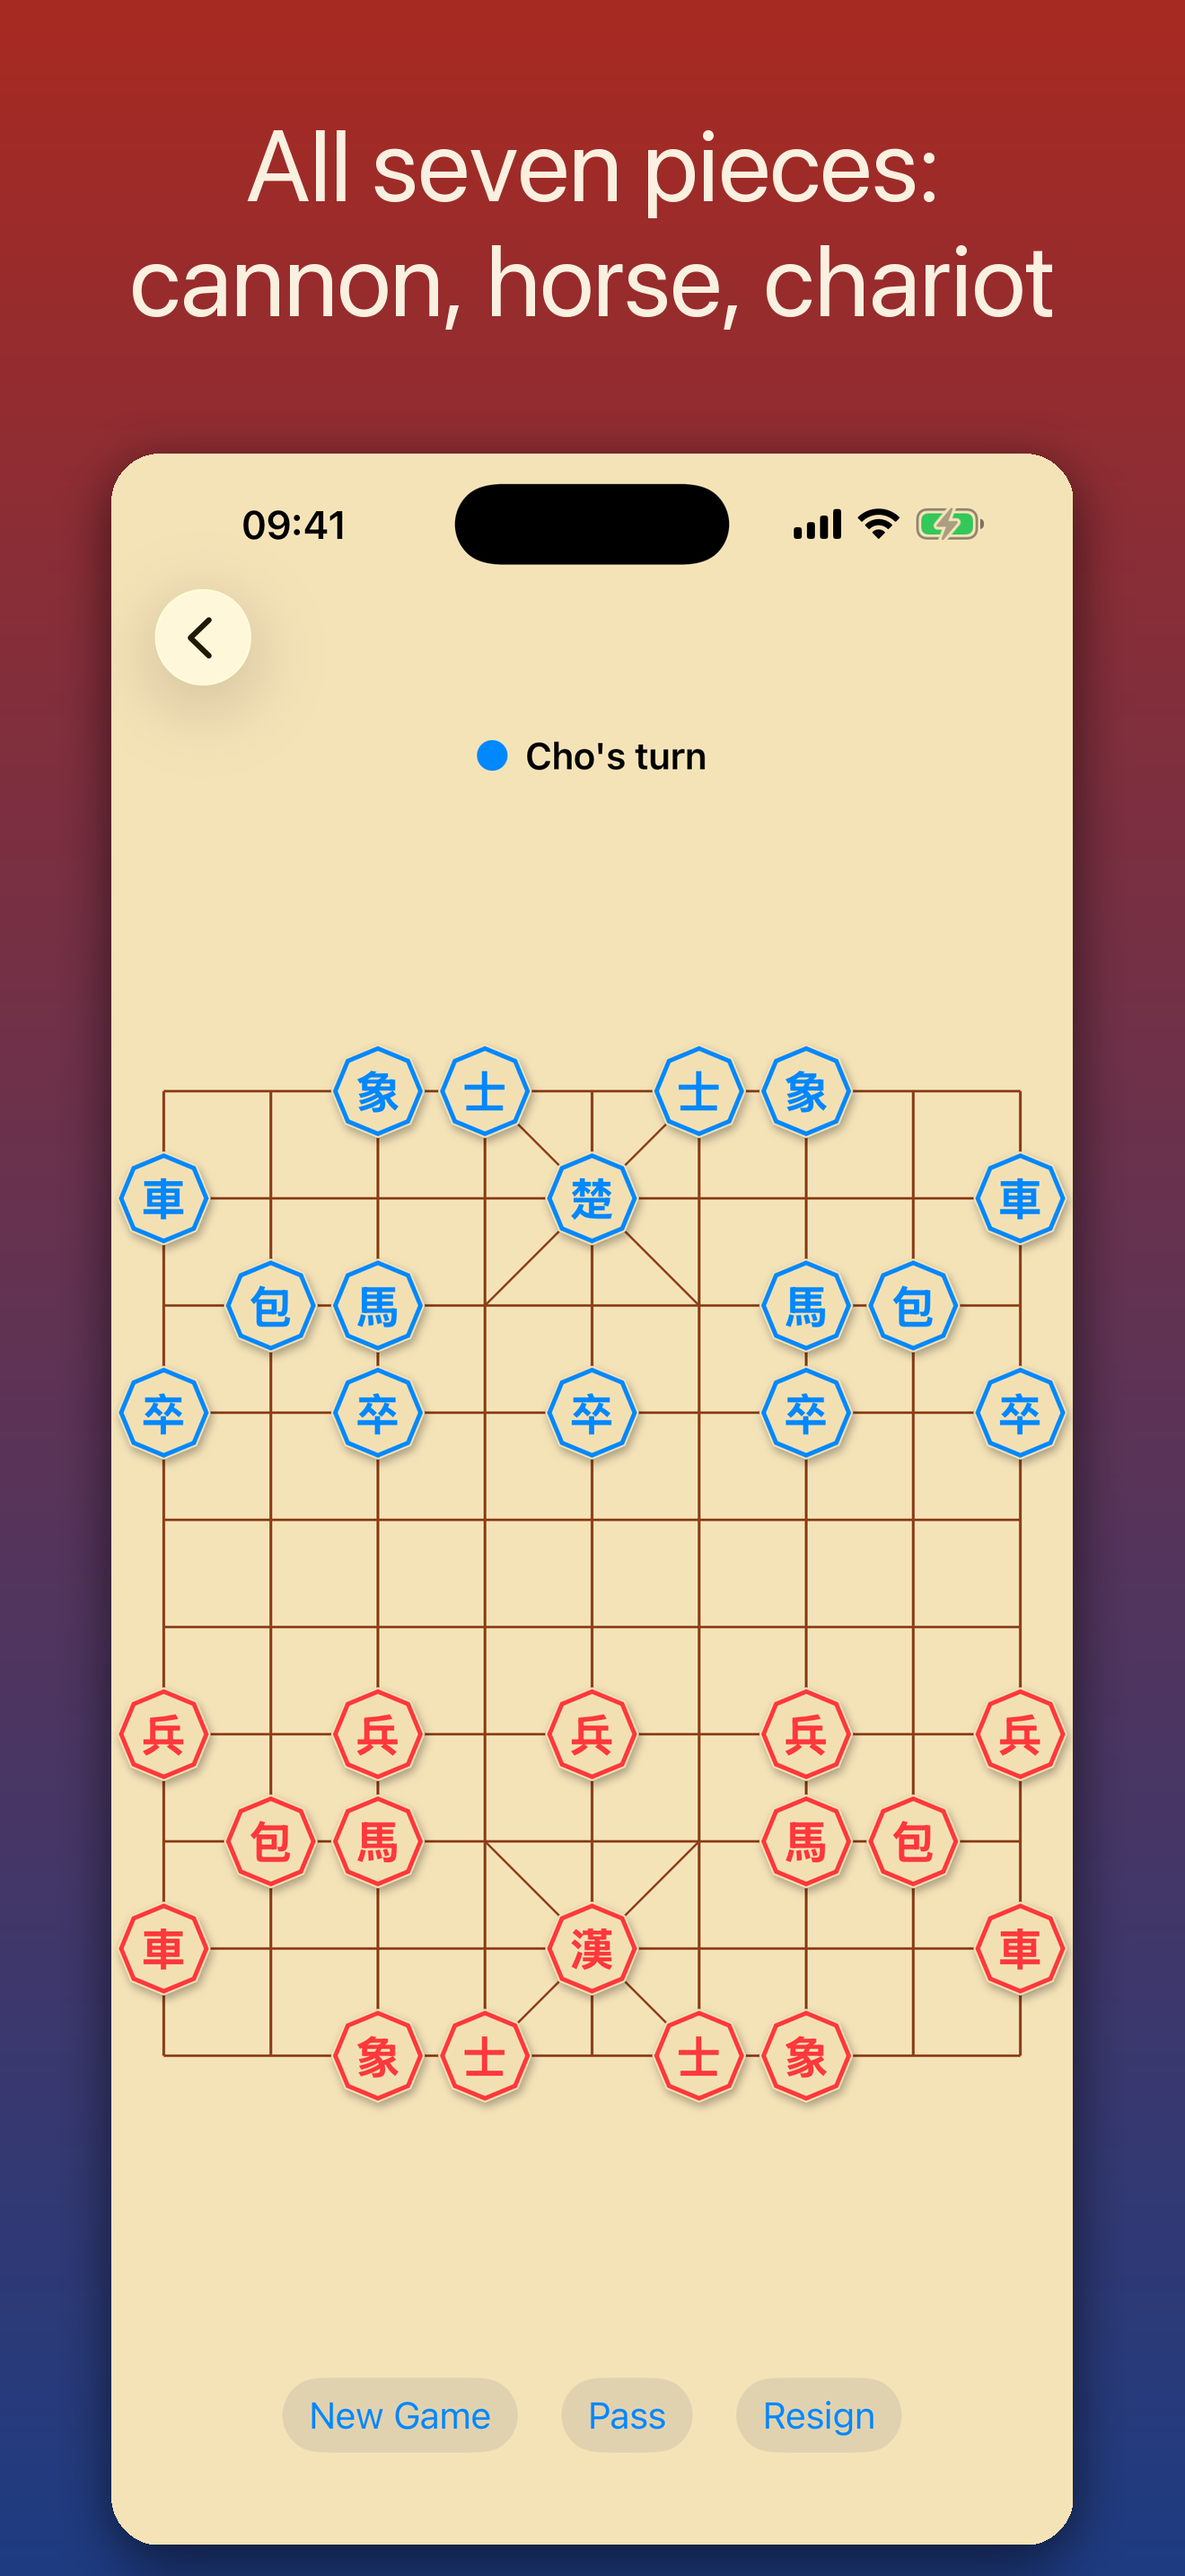
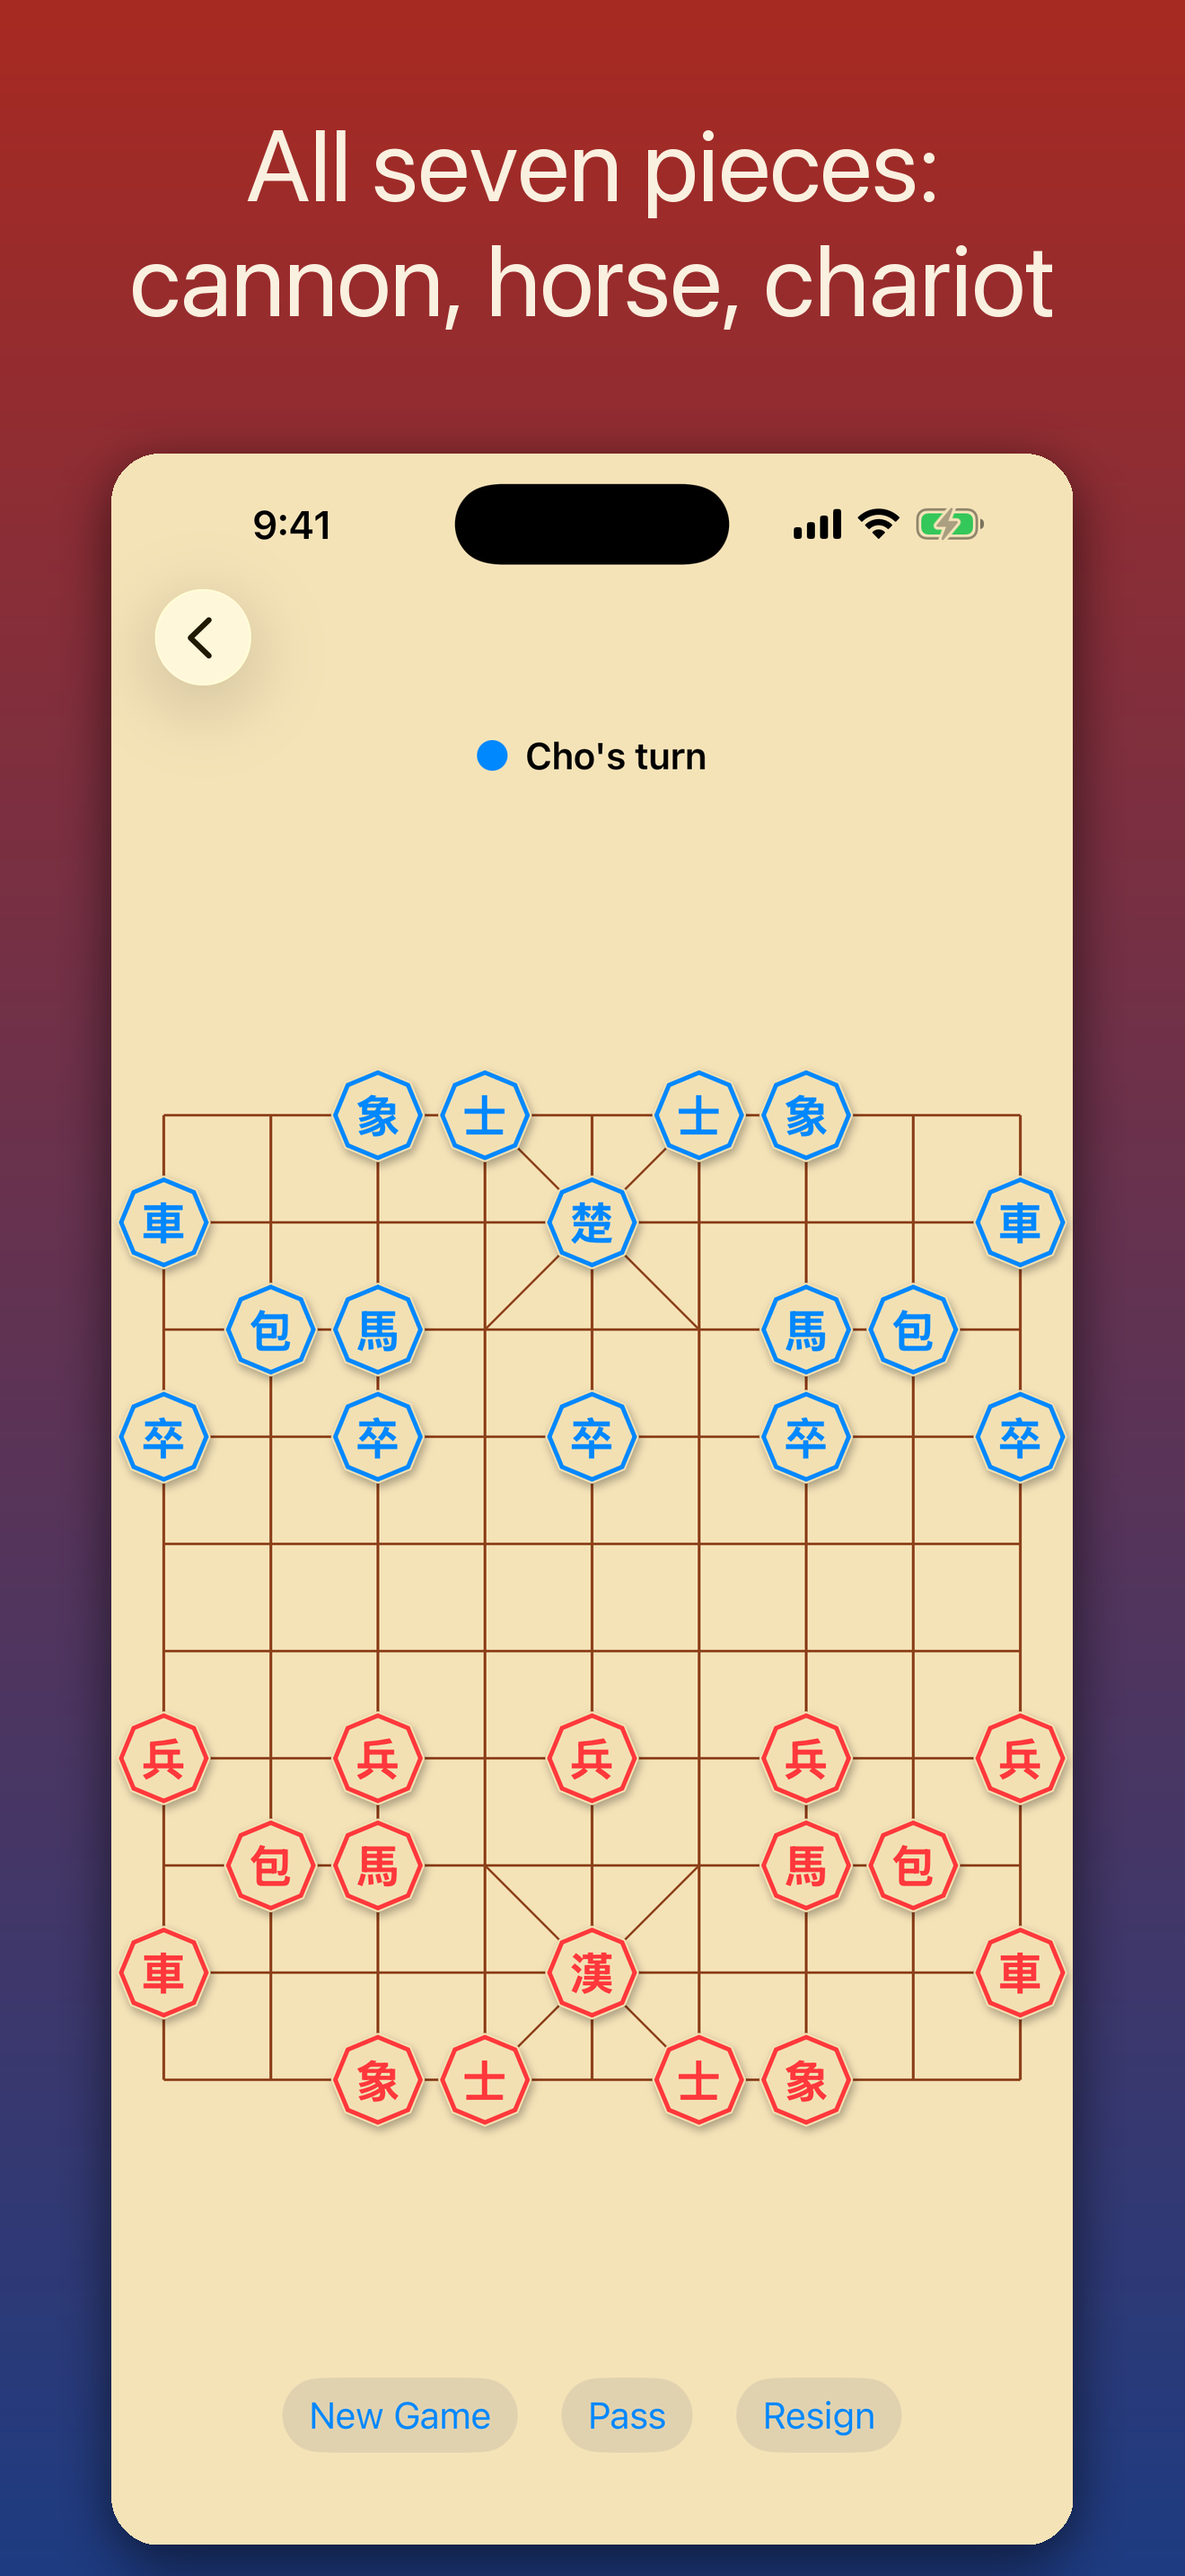
Second polish pass: fix stale-onboarding capture bug, recapture screenshots, bump to 1.0.3
- ContentView: JG_CAPTURE=home was excluded from the onboarding bypass, so on a
  fresh install it fell through to the hasSeenOnboarding check and captured the
  onboarding screen instead of Home for the App Store hero screenshot. Fixed.
- Re-verified in-app localization end-to-end (onboarding/home/in-game/paywall,
  both languages, live in Simulator) and the 2026-08-03 horse-check sign fix —
  both still solid, no regressions.
- capture_shots.py: fixed hardcoded MacBook Air path, switched to a dedicated
  named simulator device to avoid shared-simulator cross-app contamination.
- Recaptured all 5 marketing screenshots (previous set predated the checkmate
  fix, localization, and captured-material tray additions).
- Bumped MARKETING_VERSION 1.0.2 -> 1.0.3, CURRENT_PROJECT_VERSION 5 -> 6.

Claude-Session: https://claude.ai/code/session_01VsdrBUt79dm3oQQCmfugXC

diff --git a/Janggi/ContentView.swift b/Janggi/ContentView.swift
@@ -5,12 +5,18 @@ struct ContentView: View {
 
     var body: some View {
         #if DEBUG
-        if let capture = ProcessInfo.processInfo.environment["JG_CAPTURE"], capture != "home" {
+        if let capture = ProcessInfo.processInfo.environment["JG_CAPTURE"] {
             if capture == "onboarding" {
                 return AnyView(OnboardingView(onFinished: {}))
             }
-            // Any other capture value bypasses onboarding so HomeView's own
-            // JG_CAPTURE handling (paywall/board/opening/etc.) still fires.
+            // Any other capture value (including "home") bypasses onboarding
+            // so HomeView's own JG_CAPTURE handling (paywall/board/opening/etc.)
+            // still fires. Previously "home" was excluded from this bypass and
+            // fell through to the hasSeenOnboarding check below — on a fresh
+            // install (hasSeenOnboarding defaults false), that meant the
+            // capture script's "01-home" shot actually captured the
+            // onboarding screen instead of Home. Confirmed via screenshot on
+            // a freshly-created dedicated simulator (2026-08-12 polish pass).
             return AnyView(HomeView())
         }
         if ProcessInfo.processInfo.environment["JG_SKIP_ONBOARDING"] != nil {

diff --git a/capture_shots.py b/capture_shots.py
@@ -8,7 +8,7 @@ import os, re, subprocess, time
 from pathlib import Path
 from PIL import Image, ImageDraw, ImageFont, ImageFilter
 
-APP_DIR = Path("/Users/user/Janggi")
+APP_DIR = Path(__file__).resolve().parent
 PROJECT = APP_DIR / "Janggi.xcodeproj"
 SCHEME = "Janggi"
 BUNDLE = "com.quyenngo.janggi"
@@ -28,14 +28,31 @@ SHOTS = [
 def sh(*a, **k): return subprocess.run(a, check=True, capture_output=True, text=True, **k)
 
 
+DEDICATED_DEVICE_NAME = "Janggi-Capture"
+
+
 def find_device():
+    # Use a dedicated, app-named simulator device rather than a generic shared
+    # name — running this alongside other apps' concurrent capture scripts on a
+    # shared simulator has previously captured a DIFFERENT app's UI by mistake.
     out = subprocess.run(["xcrun", "simctl", "list", "devices", "available"],
                          capture_output=True, text=True).stdout
     for line in out.splitlines():
-        m = re.search(r"^\s*(iPhone .*Pro Max)\s+\(([0-9A-F\-]{36})\)", line)
+        m = re.search(rf"^\s*{re.escape(DEDICATED_DEVICE_NAME)}\s+\(([0-9A-F\-]{{36}})\)", line)
         if m:
-            return m.group(2), m.group(1)
-    raise SystemExit("No available 'iPhone ... Pro Max' simulator found")
+            return m.group(1), DEDICATED_DEVICE_NAME
+    # Not created yet — create it against a modern iPhone Pro Max device type.
+    devtypes = subprocess.run(["xcrun", "simctl", "list", "devicetypes"],
+                              capture_output=True, text=True).stdout
+    dt = None
+    for line in devtypes.splitlines():
+        m = re.search(r"^\s*(iPhone .*Pro Max)\s+\(", line)
+        if m:
+            dt = m.group(1)
+    if not dt:
+        raise SystemExit("No 'iPhone ... Pro Max' device type found to create the dedicated simulator")
+    udid = sh("xcrun", "simctl", "create", DEDICATED_DEVICE_NAME, dt).stdout.strip()
+    return udid, DEDICATED_DEVICE_NAME
 
 
 def build_app():

diff --git a/CLAUDE.md b/CLAUDE.md
@@ -30,6 +30,136 @@ Multiple 2026-07 app scouts (games/kids-ed, casual puzzle, Monopoly/Risk-style) 
 Official piece values (material scoring, ×100 scaled for AI eval, single source of truth at `PieceType.materialValue` in `Piece.swift`): General 10000 (sentinel), Chariot 1300, Cannon 700, Horse 500, Elephant 300, Guard 300, Soldier 200.
 
 ## Current State
+- **2026-08-12 — second (deeper) polish pass, batch 6 (resubmits 2026-09-03).
+  Local + ASC metadata/screenshots only — no build uploaded, no
+  review-submission touched, per the hard "don't submit" constraint.**
+  🟡 **READY FOR RESUBMISSION 2026-09-03** (staggered schedule, do not
+  submit early).
+  - **Localization re-verification (this session's highest-stakes check,
+    same rigor as Tiến Lên's card-back check):** confirmed real, not
+    regressed.
+    1. Diffed the sorted key sets of `en.lproj/Localizable.strings` (48
+       keys) vs `ko.lproj/Localizable.strings` (48 keys) — **byte-identical
+       key sets, zero diff.**
+    2. Grepped every `L("...")` call site across `Janggi/Views` and
+       `Janggi/Core` (48 unique keys used) and confirmed every one resolves
+       to a real string in both `.lproj` files — zero missing keys either
+       direction.
+    3. **Switched the running app's language live in the Simulator**
+       (`-AppleLanguages`/`-AppleLocale`, both `en`/`en_US` and `ko`/`ko_KR`)
+       and screenshotted four separate screens — onboarding, Home, in-game
+       (turn indicator + New Game/Pass/Resign), and the paywall — confirming
+       the UI text actually changes correctly in both languages at every
+       depth, not just onboarding. E.g. "Cho's turn"/"초 차례",
+       "New Game/Pass/Resign"/"새 게임/패스/기권", "Beginner/Medium/Expert"/
+       "초급/중급/고급", paywall "Unlock Full Version"/"전체 버전 잠금 해제". **No
+       gaps found — the 2026-08-09 localization work held up completely.**
+  - **Horse-check sign-fix re-verification:** independently hand-traced all
+    8 `Board.isInCheck` horse-check offset pairs against `horseMoves`' own
+    move-generation offsets (not just re-reading the prior claim) — every
+    pair's blocking-leg offset correctly derives from the horse's own
+    position, confirming the 2026-08-03 fix is still intact. No regression.
+  - **Real bug found and fixed: `01-home.png` (the App Store hero
+    screenshot) was actually capturing the onboarding screen, not Home.**
+    Root cause: `ContentView.swift`'s `#if DEBUG` block excluded
+    `JG_CAPTURE == "home"` from the onboarding bypass, so on a **freshly
+    installed app** (a fresh dedicated simulator, `hasSeenOnboarding`
+    defaults `false`) that specific capture value fell through to the
+    normal `!hasSeenOnboarding` check and showed onboarding instead of
+    Home. Confirmed via screenshot before the fix (showed "Capture the
+    General" onboarding page 1, not the Home screen), fixed by removing the
+    `capture != "home"` exclusion, rebuilt, recaptured, and reconfirmed —
+    `01-home.png` now correctly shows Home with the current version stamp
+    (`v1.0.2 (5)` → now `v1.0.3 (6)` after this session's bump). This is
+    the kind of bug that stays invisible on a reused/warm simulator (where
+    onboarding was already dismissed) and only surfaces on a clean device —
+    exactly the scenario the batch's "always use a dedicated simulator"
+    rule creates, so worth remembering for every future capture run.
+  - **Stale screenshots fixed:** `screenshots/v2/*.png` were captured under
+    v1.0.0 build 1 — predated the checkmate fix, the localization work, and
+    the captured-material tray (all from 2026-08-09). Recaptured all 5 on a
+    freshly created dedicated `Janggi-Capture` simulator device (not a
+    shared/generic name) to avoid the cross-app contamination other apps in
+    this batch hit; visually inspected every one, all correctly show
+    current app state.
+  - **UI polish check:** examined the `GameView` board layout (the
+    GeometryReader-centered board leaves a visible gap above/below the
+    board on tall screens) against the "top-hugging VStack / one-sided dead
+    space" bug pattern flagged elsewhere in this batch — measured
+    pixel-precise via the actual screenshot (top margin ~456px, bottom
+    margin ~335px out of a 2868px-tall capture) and concluded this is
+    legitimate GeometryReader centering, not the one-sided bug pattern seen
+    in Surakarta/Omweso. No fix made — verified, not invented.
+  - **`capture_shots.py` fixed:** `APP_DIR` was still hardcoded to the old
+    MacBook Air path (`/Users/user/Janggi`) — now resolves relative to the
+    script's own location. `find_device()` used to grab any available
+    "iPhone ... Pro Max" simulator by pattern match, which risks the
+    shared-simulator contamination bug that hit other apps this batch
+    (concurrent capture scripts writing to the same device) — now targets
+    (and creates if missing) a dedicated `Janggi-Capture` device by name.
+  - **`asc_push_janggi.py` bugs found and fixed** (read through before
+    trusting it, per house process):
+    - `find_editable_appinfo` read the wrong attribute key entirely
+      (`"state"` instead of the real `"appStoreState"`), so its editable-
+      state check never matched anything and it always fell through to
+      `infos[0]` — which order isn't guaranteed to be the editable one.
+    - `find_or_create_version` matched on a hardcoded
+      `versionString == "1.0"` — since v1.0 is the **live, READY_FOR_SALE**
+      version and v1.0.1 is the editable REJECTED one, this would have
+      silently pushed metadata onto the already-shipped live version
+      instead of the draft. Fixed to select the highest-versioned
+      non-locked (`READY_FOR_SALE`/`PENDING_DEVELOPER_RELEASE`/
+      `PROCESSING_FOR_APP_STORE`) version by real `appStoreState`.
+    - The version-creation fallback path hardcoded `releaseType: "MANUAL"`
+      instead of the house standard `AFTER_APPROVAL`.
+    - Verified the fix against the live API before trusting it: dry-run
+      confirmed `find_editable_appinfo` → `744cb3d8-...` (the REJECTED
+      appInfo) and `find_or_create_version` → `f7295b99-...` (the REJECTED
+      v1.0.1), not the READY_FOR_SALE ones.
+  - **`asc_push_janggi_screenshots.py` bugs found and fixed:**
+    - `SHOTS_DIR` hardcoded to `/Users/user/Janggi/screenshots/v2` (same
+      stale MacBook Air path) — now resolves via `Path.home() / "Projects" /
+      "Janggi" / ...`.
+    - `find_version_loc_id` had the identical hardcoded-`"1.0"` version-
+      selection bug as the metadata script — fixed the same way.
+    - `upload_iap_review_screenshot` had no error handling — a locked/
+      in-review IAP (409) would crash the whole script even after the 5
+      version screenshots already uploaded successfully. Added a
+      try/except; confirmed it fires for real (the IAP review screenshot
+      genuinely 409'd this run — `janggi.pro` is still tied to the prior
+      REJECTED submission — and the script now reports it cleanly instead
+      of crashing).
+  - **ASO refresh (copy was already strong — per `docs/asc-metadata.md`,
+    only keywords touched):** en-US keywords swapped `tabletop`/`puzzle`
+    (generic/genre-mismatched) for `changgi` (alternate English spelling)
+    and `checkmate` (99/100 chars, was 96/100). ko keywords added
+    `체스`/`정통장기` (chess / authentic-janggi) — plenty of headroom (52/100,
+    was 44/100). Description/subtitle/promo left untouched — already
+    genuinely compelling, not template filler.
+  - **Pushed live to ASC** (metadata + screenshots only, no build/
+    review-submission): `asc_push_janggi.py` and
+    `asc_push_janggi_screenshots.py`, both re-run after the bug fixes above
+    and verified via `asc_inspect_listing.py` — keywords confirmed updated
+    on the REJECTED v1.0.1 (not the live v1.0), all 5 version screenshots
+    confirmed uploaded.
+  - **Version bump:** `MARKETING_VERSION` 1.0.2 → **1.0.3**,
+    `CURRENT_PROJECT_VERSION` 5 → **6** (`project.yml`, single settings
+    block — no separate target-level override to miss). Rebuilt clean on
+    Simulator after the bump: **BUILD SUCCEEDED, zero warnings.**
+  - **Build:** clean `xcodegen generate` + Simulator build both before and
+    after this session's changes, zero warnings both times.
+  - **Not touched this session:** rules engine correctness beyond the
+    horse-check spot-check (already re-verified 2026-08-09, no reason to
+    redo); onboarding content (already real, confirmed still gated on
+    `hasSeenOnboarding`); DEBUG/isPro double-gating (already confirmed
+    clean 2026-08-09, no changes touched that code path this session); IAP
+    wiring.
+  - **Still open / needs Q's judgment:** none blocking. The IAP review
+    screenshot (`iap-review-paywall.png`, separate from the 5-shot pipeline)
+    is still the old dark-mode "Unable to load purchase option" capture
+    from initial submission — pre-existing known cosmetic limitation
+    (StoreKit sandbox can't preview live pricing in an unattended capture),
+    documented since 2026-07-18, not touched this session.
 - **2026-08-09 — pre-resubmission quality review (part of the 19-app Guideline
   5.6 account-hold remediation pass; resubmission blocked until 2026-08-18).
   Local-only: nothing touched in App Store Connect.** 🟡 **READY FOR
